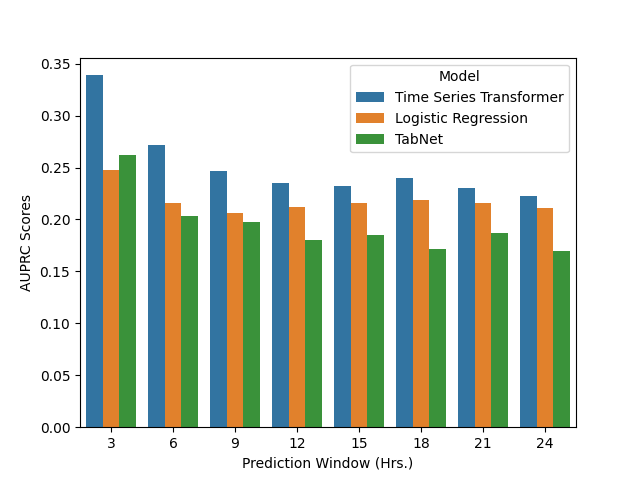
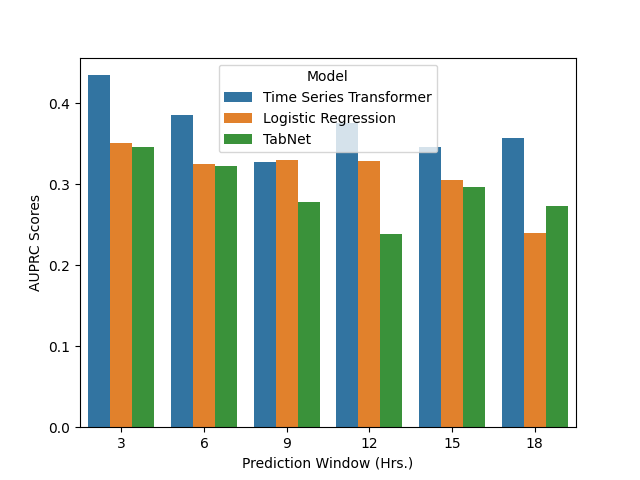
Revamp pipeline to use held-out data

diff --git a/src/tabsep/reporting/performanceVsTime.py b/src/tabsep/reporting/performanceVsTime.py
@@ -3,21 +3,16 @@ import pickle
 import matplotlib.pyplot as plt
 import pandas as pd
 import seaborn as sns
+import torch
+from sklearn.metrics import average_precision_score, roc_auc_score
 
 from tabsep.modeling import CVResults
-
-
-def load_cvresult(path: str) -> CVResults:
-    with open(path, "rb") as f:
-        res = pickle.load(f)
-
-    return res
-
 
 if __name__ == "__main__":
     plottable = {
         "Model": list(),
         "AUPRC Scores": list(),
+        "AUROC Scores": list(),
         "Prediction Window (Hrs.)": list(),
     }
     pretty_model_names = {
@@ -26,13 +21,17 @@ if __name__ == "__main__":
         "Tabnet": "TabNet",
     }
 
-    for window_idx in [3, 6, 9, 12, 15, 18, 21, 24]:
+    for window_idx in [3, 6, 9, 12, 15, 18]:
         for model in ["LR", "Tabnet", "TST"]:
-            r = load_cvresult(f"cache/{model}/sparse_labeled_{window_idx}_cvresult.pkl")
-            precisions = r.get_precisions()
-            plottable["Model"] += [pretty_model_names[model]] * len(precisions)
-            plottable["AUPRC Scores"] += precisions
-            plottable["Prediction Window (Hrs.)"] += [window_idx] * len(precisions)
+            y_test = torch.load(f"cache/{model}/sparse_labeled_{window_idx}_y_test.pt")
+            preds = torch.load(f"cache/{model}/sparse_labeled_{window_idx}_preds.pt")
+            auprc = average_precision_score(y_test, preds)
+            auroc = roc_auc_score(y_test, preds)
+
+            plottable["Model"].append(pretty_model_names[model])
+            plottable["AUPRC Scores"].append(auprc)
+            plottable["AUROC Scores"].append(auroc)
+            plottable["Prediction Window (Hrs.)"].append(window_idx)
 
     plottable = pd.DataFrame(data=plottable)
     sns.barplot(
@@ -41,8 +40,6 @@ if __name__ == "__main__":
         y="AUPRC Scores",
         hue="Model",
         hue_order=pretty_model_names.values(),
-        # capsize=0.1,
-        errorbar=None,
     )
     plt.savefig("results/performanceVsTime.png")
 

diff --git a/src/tabsep/dataProcessing/derived2tensor.py b/src/tabsep/dataProcessing/derived2tensor.py
@@ -55,11 +55,11 @@ class DerivedDataReader:
         before_len = len(self.icustays)
         self.icustays = self.icustays[
             (pd.isna(self.icustays["sepsis_tidx"]))
-            | (self.icustays["sepsis_tidx"] > (lookahead_hours + 6))
+            | (self.icustays["sepsis_tidx"] > (lookahead_hours + 24))
         ]
 
         print(
-            f"[*] Dropped {before_len - len(self.icustays)} with sepsis within the first {lookahead_hours + 6} hrs"
+            f"[*] Dropped {before_len - len(self.icustays)} with sepsis within the first {lookahead_hours + 24} hrs"
         )
 
         self.icustays["sepsis_tidx"] = self.icustays["sepsis_tidx"].fillna(0)
@@ -72,7 +72,7 @@ class DerivedDataReader:
             if row_in["sepsis_tidx"] > 0:
                 return row_in["sepsis_tidx"] - lookahead_hours
             else:
-                return random.randint(6, int(row_in["los_icu"] * 24))
+                return random.randint(24, int(row_in["los_icu"] * 24))
 
         self.icustays["tidx_max"] = self.icustays.apply(set_truncation, axis=1)
 

diff --git a/src/tabsep/modeling/baseRunner.py b/src/tabsep/modeling/baseRunner.py
@@ -63,7 +63,9 @@ class BaseModelRunner:
 
     def train(self):
         X, y = self._load_data()
-        X_train, X_test, y_train, y_test = train_test_split(X, y, test_size=0.2)
+        X_train, X_test, y_train, y_test = train_test_split(
+            X, y, test_size=0.1, random_state=42
+        )
         m = self.configured_model_factory()
         m.fit(X_train, y_train)
         preds = m.predict_proba(X_test)[:, 1]

diff --git a/src/tabsep/modeling/lrRunner.py b/src/tabsep/modeling/lrRunner.py
@@ -19,7 +19,10 @@ class LogisticRegressionRunner(BaseModelRunner):
         X = d.get_snapshot_los()
         y = d.get_labels()
 
-        return X, y
+        # To make things fair with the deep learning models, that use a validation set
+        X_train, _, y_train, _ = train_test_split(X, y, test_size=0.1, random_state=42)
+
+        return X_train, y_train
 
 
 if __name__ == "__main__":

diff --git a/src/tabsep/modeling/tabnet.py b/src/tabsep/modeling/tabnet.py
@@ -50,7 +50,7 @@ class CompatibleTabnet(TabNetClassifier):
         super().fit(
             X_train,
             y_train,
-            patience=10,
+            patience=3,
             eval_set=[(X_valid, y_valid)],
             eval_metric=["logloss", "auc"],
             **self.fit_params

diff --git a/src/tabsep/modeling/skorchTST.py b/src/tabsep/modeling/skorchTST.py
@@ -64,7 +64,7 @@ class AutoPadmaskingTST(TSTransformerEncoderClassiregressor):
         return out
 
 
-def tst_factory(tst_config: TSTConfig, patience=10):
+def tst_factory(tst_config: TSTConfig, patience=3):
     """
     Generate TSTs wrapped in standard skorch wrapper
     """
